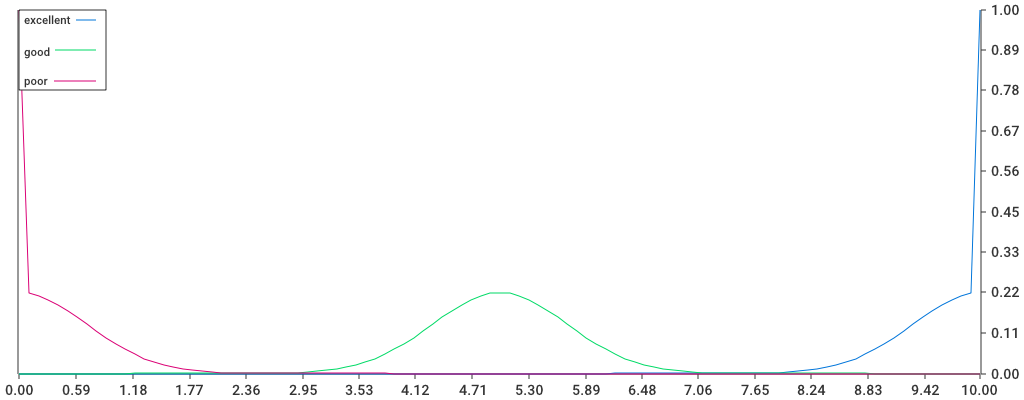
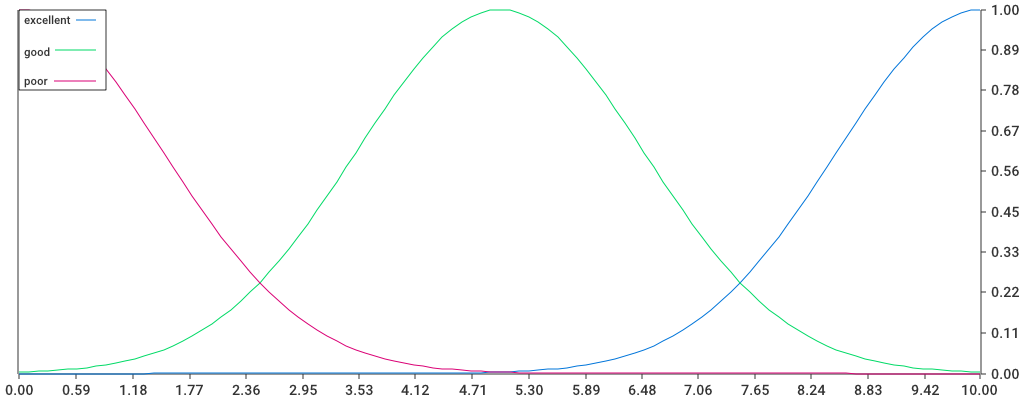
[rules] added DSL for parsing

diff --git a/parser.go b/parser.go
@@ -1,0 +1,95 @@
+package fluffy
+
+import (
+	"github.com/alecthomas/participle/v2"
+	"github.com/andviro/fluffy/num"
+)
+
+type RulesParser struct {
+	Rules []RuleParser `parser:"@@*"`
+}
+
+type RuleParser struct {
+	Weight      string   `parser:"@Float"`
+	Antecedent  OrParser `parser:"':' @@"`
+	Consequents []Clause `parser:" ['-' '>'] @@+"`
+}
+
+func (rp RuleParser) Build() Rule {
+	return Rule{
+		Weight:      num.NewS(rp.Weight),
+		Antecedent:  rp.Antecedent.Build(),
+		Consequents: rp.Consequents,
+	}
+}
+
+type OrParser struct {
+	And  AndParser `parser:"@@"`
+	Next *OrParser `parser:"[ '|' @@ ]"`
+}
+
+func (op OrParser) Build() Antecedent {
+	res := []Antecedent{op.And.Build()}
+	for next := op.Next; next != nil; next = next.Next {
+		res = append(res, next.Build())
+	}
+	if len(res) == 1 {
+		return res[0]
+	}
+	return Or(res)
+}
+
+func (ap AndParser) Build() Antecedent {
+	res := []Antecedent{ap.Negation.Build()}
+	for next := ap.Next; next != nil; next = next.Next {
+		res = append(res, next.Build())
+	}
+	if len(res) == 1 {
+		return res[0]
+	}
+	return And(res)
+}
+
+type AndParser struct {
+	Negation NotParser  `parser:"@@"`
+	Next     *AndParser `parser:"[ '&' @@ ]"`
+}
+
+func (np NotParser) Build() Antecedent {
+	if np.Not != nil {
+		return Not{np.Not.Build()}
+	}
+	return np.Next.Build()
+}
+
+type NotParser struct {
+	Not  *NotParser    `parser:"( '!' @@ )"`
+	Next *ClauseParser `parser:"| @@"`
+}
+
+func (cp ClauseParser) Build() Antecedent {
+	if cp.Next != nil {
+		return cp.Next.Build()
+	}
+	return Clause{VariableName(cp.Variable), TermName(cp.Term)}
+}
+
+type ClauseParser struct {
+	Variable string    `parser:"@Ident '='"`
+	Term     string    `parser:"@Ident"`
+	Next     *OrParser `parser:"| '(' @@ ')'"`
+}
+
+var parser = participle.MustBuild[RulesParser](participle.UseLookahead(2))
+
+func ParseRules(src string) ([]Rule, error) {
+	expr, err := parser.ParseString("", src)
+	if err != nil {
+		return nil, err
+	}
+	var res []Rule
+	for _, r := range expr.Rules {
+		res = append(res, r.Build())
+	}
+	return res, nil
+}

diff --git a/mf/gaussian.go b/mf/gaussian.go
@@ -4,15 +4,15 @@ import (
 	"github.com/andviro/fluffy/num"
 )
 
-var (
-	one = num.NewI(1, 0)
-	two = num.NewI(2, 0)
-)
-
 type Gaussian struct {
 	C     num.Num
 	Sigma num.Num
 }
+
+var (
+	one = num.NewI(1, 0)
+	two = num.NewI(2, 0)
+)
 
 type gaussianDTO struct {
 	Type  string  `yaml:"type"`
@@ -25,12 +25,7 @@ func (f Gaussian) MarshalYAML() (interface{}, error) {
 }
 
 func (f Gaussian) Value(x num.Num) num.Num {
-	// return math.Exp(-math.Pow(x-f.C, 2) / (2 * math.Pow(f.Sigma, 2)))
-	t := x.Sub(f.C)
-	t = num.ZERO.Sub(t.Mul(t))
-	t = num.Exp(t)
-	t = t.Div(f.Sigma.Mul(f.Sigma).Mul(two))
-	return t
+	return num.Exp(num.Neg(num.Sqr(x.Sub(f.C)).Div(two.Mul(num.Sqr(f.Sigma)))))
 }
 
 type LeftGaussian Gaussian
@@ -39,7 +34,6 @@ func (f LeftGaussian) Value(x num.Num) num.Num {
 	if x.LessThanOrEqual(f.C) {
 		return one
 	}
-	// return math.Exp(-math.Pow(x-f.C, 2) / (2 * math.Pow(f.Sigma, 2)))
 	return Gaussian(f).Value(x)
 }
 

diff --git a/rule.go b/rule.go
@@ -19,11 +19,27 @@ type Evaluator interface {
 }
 
 type Rule struct {
-	Weight      num.Num    `yaml:"weight"`
-	AndMethod   op.Binary  `yaml:"andMethod,omitempty"`
-	OrMethod    op.Binary  `yaml:"orMethod,omitempty"`
-	Antecedent  Antecedent `yaml:"antecedent"`
-	Consequents []Clause   `yaml:"consequents"`
+	Weight      num.Num
+	AndMethod   op.Binary
+	OrMethod    op.Binary
+	Antecedent  Antecedent
+	Consequents []Clause
+}
+
+func (r Rule) MarshalYAML() (interface{}, error) {
+	return struct {
+		Weight      float64
+		AndMethod   op.Binary  `yaml:"andMethod,omitempty"`
+		OrMethod    op.Binary  `yaml:"orMethod,omitempty"`
+		Antecedent  Antecedent `yaml:"antecedent"`
+		Consequents []Clause   `yaml:"consequents"`
+	}{
+		Weight:      r.Weight.Float(),
+		AndMethod:   r.AndMethod,
+		OrMethod:    r.OrMethod,
+		Antecedent:  r.Antecedent,
+		Consequents: r.Consequents,
+	}, nil
 }
 
 type rule struct {

diff --git a/mf/sigmoid.go b/mf/sigmoid.go
@@ -1,6 +1,8 @@
 package mf
 
 import (
+	"math"
+
 	"github.com/andviro/fluffy/num"
 )
 
@@ -14,14 +16,12 @@ type sigmoidDTO struct {
 	C    num.Num `yaml:"c"`
 }
 
-func sigmoid(x, a, c num.Num) num.Num {
-	t := num.Neg(a.Mul(x.Sub(c)))
-	t = num.Exp(t)
-	return one.Div(one.Add(t))
-}
-
 func (f Sigmoid) MarshalYAML() (interface{}, error) {
 	return sigmoidDTO{Type: "Sigmoid", C: f.C, A: f.A}, nil
+}
+
+func sigmoid(x, a, c num.Num) num.Num {
+	return num.NewF(1.0 / (1.0 + math.Exp(-a.Float()*(x.Float()-c.Float()))))
 }
 
 func (f *Sigmoid) Value(x num.Num) num.Num {

diff --git a/parser_test.go b/parser_test.go
@@ -1,0 +1,26 @@
+package fluffy_test
+
+import (
+	"testing"
+
+	"gopkg.in/yaml.v2"
+
+	"github.com/andviro/goldie"
+
+	"github.com/andviro/fluffy"
+)
+
+func TestParser(t *testing.T) {
+	r, err := fluffy.ParseRules(`
+    1.0 : a = b & c = d | a = e -> z = y
+    0.5 : x = y & (x = d | x = f) -> z = t
+`)
+	if err != nil {
+		t.Fatal(err)
+	}
+	yd, err := yaml.Marshal(r)
+	if err != nil {
+		t.Fatal(err)
+	}
+	goldie.Assert(t, "parse", yd)
+}

diff --git a/eval.go b/eval.go
@@ -13,8 +13,8 @@ type VariableName string
 type TermName string
 
 type Clause struct {
-	Variable VariableName `yaml:"variable"`
-	Term     TermName     `yaml:"term"`
+	Variable VariableName `yaml:"variable" parser:"@Ident"`
+	Term     TermName     `yaml:"term" parser:"'=' @Ident"`
 }
 
 func (c Clause) MarshalYAML() (interface{}, error) {

diff --git a/num/num.go b/num/num.go
@@ -50,3 +50,7 @@ func Exp(n Num) Num {
 func Neg(n Num) Num {
 	return ZERO.Sub(n)
 }
+
+func Sqr(val Num) Num {
+	return val.Mul(val)
+}
